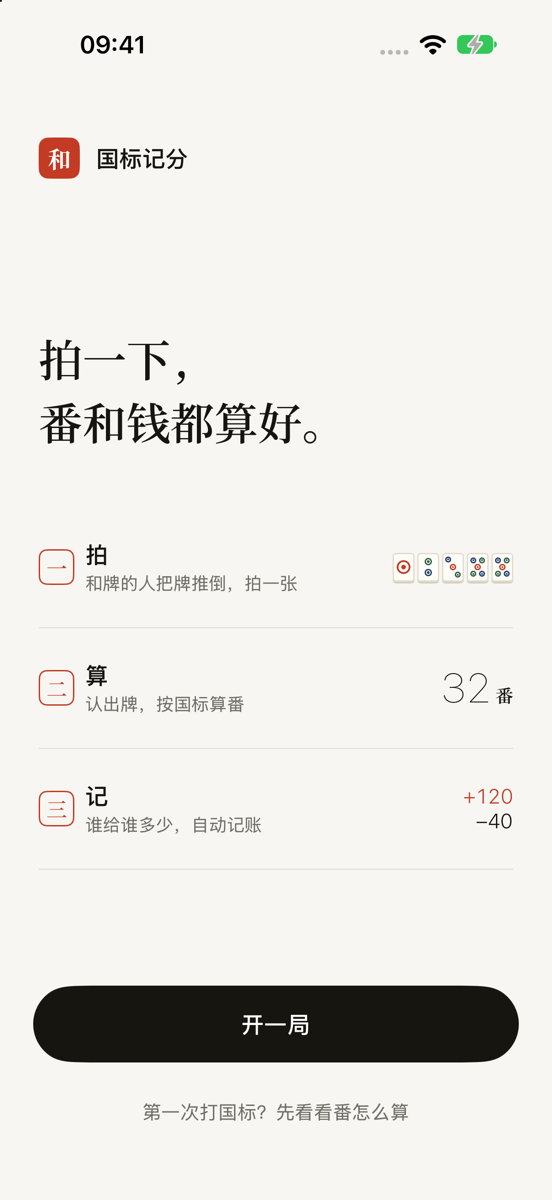
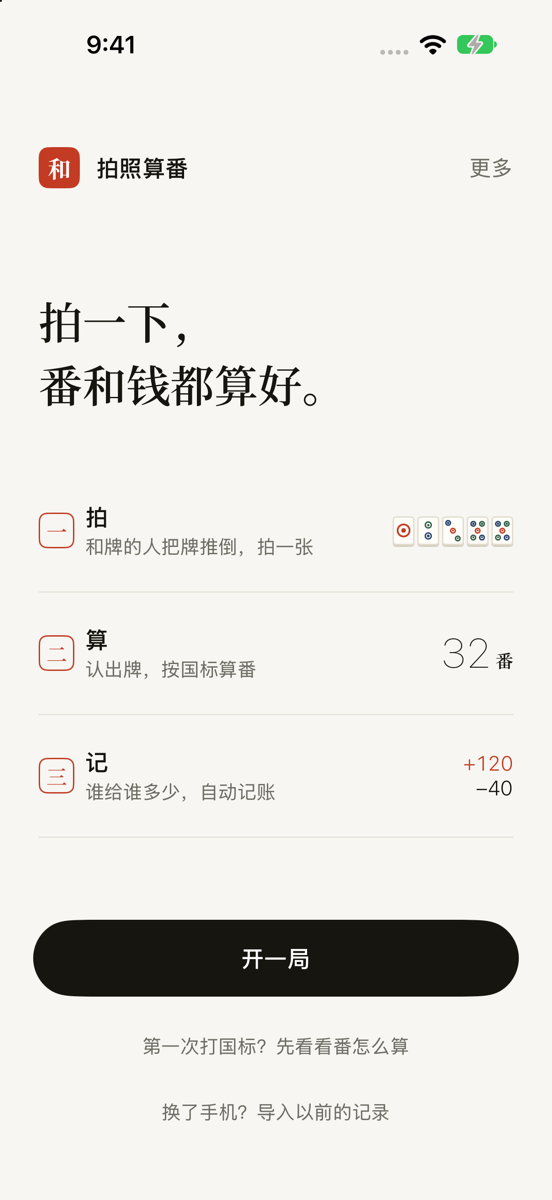
首页「更多」改成从底下升起的一页，build 6 (#35)
* 界面第一批：不替人选谁和了和自摸，核对页能看照片，邀请码提示挪到核对页，删除报错不用朱红

- 拍照页四个名字不再默认亮庄家；核对页加「谁和了」一排，拍照页点过的亮着、可改
- 「怎么和的」改成一排：自摸 / 某某点炮，都不预选；没选时底部按钮写原因
- 核对页标题右边放照片小图，点开全屏可放大拖动
- 拍照页不再提邀请码；离线认牌这手动手改过、牌对了以后，核对页提一行
- 删掉这一局、填码出错、改分填错改用墨色
- docs/user-flow.md 跟着改

Claude-Session: https://claude.ai/code/session_01Sm2sfkRi3hnSogq4ZtLyWH

* 界面第二批：「我」和第一局的庄分开、首页链接收进「更多」、结算写钱、老用户收起说明、字号调大、触感、和印章

- 牌局加 me（旧存档按第一个人），开局页第一行是你，另点第一局谁坐庄；牌桌图和首页历史按 me 显示
- 首页三行灰链接收进右上「更多」，历史行写名字加输赢
- 结算页名次大字写钱，1 分不是 1 元时旁边写分
- 记过 3 手和牌后收起核对页、牌桌、首页的教学说明句
- 小字 12/13 号调到 13/14 号，教人做事的字不再用最淡的灰
- 快门、牌落下、记下、撤销加触感；和的那张用朱红小印「和」
- 结果页顶行改成墨色、可点回核对页改；撤销条留 8 秒
- docs/user-flow.md 跟着改

Claude-Session: https://claude.ai/code/session_01Sm2sfkRi3hnSogq4ZtLyWH

* 1.0.3（build 5）：空首页也有「更多」（能找到填邀请码），支持页和送审说明改成新位置，写好新版说明

Claude-Session: https://claude.ai/code/session_01Sm2sfkRi3hnSogq4ZtLyWH

* 1.0.3 产品页截图重拍（6.9 寸，6 张）

* 首页「更多」改成从底下升起的一页（不用系统菜单），build 6

Claude-Session: https://claude.ai/code/session_01Sm2sfkRi3hnSogq4ZtLyWH

* 「更多」页：标题大一号，最后一行不画线，高度收紧

Claude-Session: https://claude.ai/code/session_01Sm2sfkRi3hnSogq4ZtLyWH

* 文档截图：首页、空首页、首页「更多」页

---------

diff --git a/app/MajiangApp/Screens/HomeView.swift b/app/MajiangApp/Screens/HomeView.swift
@@ -8,6 +8,9 @@ struct HomeView: View {
     @State private var showSettings = false
     @State private var showBackup = false
     @State private var showInvite = false
+    @State private var showMore = false
+    /// 「更多」页里点了哪一项：等「更多」收下去再打开那一页，两层弹出不叠在一起。
+    @State private var moreTarget: MoreTarget?
 
     private var isEmpty: Bool { model.archive.games.isEmpty }
 
@@ -25,9 +28,18 @@ struct HomeView: View {
         .sheet(isPresented: $showGuide) { RulesGuideView() }
         .sheet(isPresented: $showBackup) { BackupView() }
         .sheet(isPresented: $showInvite) { InviteView() }
+        .sheet(isPresented: $showMore, onDismiss: openMoreTarget) {
+            MoreSheet(showsInvite: model.usesProxy || model.demoScreen == .invite || model.demoScreen == .more,
+                      inviteOn: model.inviteCode != nil,
+                      backupLine: backupLine) { target in
+                moreTarget = target
+                showMore = false
+            }
+        }
         .onAppear {
             if model.demoScreen == .backup { showBackup = true }
             if model.demoScreen == .invite { showInvite = true }
+            if model.demoScreen == .more { showMore = true }
         }
         #if DEBUG
         .sheet(isPresented: $showSettings) { SettingsView() }
@@ -104,17 +116,10 @@ struct HomeView: View {
         }
     }
 
-    /// 右上角的「更多」：番怎么算、备份、邀请码。跟牌桌页右上的「更多」一样是灰字。
+    /// 右上角的「更多」：灰字，点开从底下升起一页（App 自己的样式，不用系统菜单）。
     /// 第一次打开的空首页也有，审核员和新用户一打开就能找到填邀请码的地方。
     private var moreMenu: some View {
-        Menu {
-            Button("番怎么算") { showGuide = true }
-            Button("备份与换手机") { showBackup = true }
-            // 走我们的服务器时才有邀请码（开发版直连 Google 用不着）
-            if model.usesProxy || model.demoScreen == .invite {
-                Button(model.inviteCode == nil ? "填邀请码，开启 AI 认牌" : "AI 认牌 · 已开启") { showInvite = true }
-            }
-        } label: {
+        Button { showMore = true } label: {
             Text("更多")
                 .font(.system(size: 16))
                 .foregroundStyle(Theme.gray)
@@ -122,6 +127,80 @@ struct HomeView: View {
                 .frame(minHeight: 44)
                 .contentShape(Rectangle())
         }
+        .buttonStyle(.plain)
+    }
+
+    /// 「备份与换手机」那行下面的一句：iCloud 开没开。
+    private var backupLine: String {
+        model.cloud.enabled ? "iCloud 同步已打开" : "导出、导入牌局，或者打开 iCloud 同步"
+    }
+
+    private func openMoreTarget() {
+        switch moreTarget {
+        case .guide: showGuide = true
+        case .backup: showBackup = true
+        case .invite: showInvite = true
+        case nil: break
+        }
+        moreTarget = nil
+    }
+}
+
+private enum MoreTarget {
+    case guide, backup, invite
+}
+
+/// 「更多」：纸白底，一项一行，名字下面一句说明，右边一个 ›。跟账本、家规一样是细线列表。
+private struct MoreSheet: View {
+    var showsInvite: Bool
+    var inviteOn: Bool
+    var backupLine: String
+    var pick: (MoreTarget) -> Void
+
+    var body: some View {
+        VStack(alignment: .leading, spacing: 0) {
+            Text("更多")
+                .font(.system(size: 20, weight: .semibold))
+                .padding(.top, 28)
+                .padding(.bottom, 8)
+            row("番怎么算", "国标的番种和收付，都是白话", .guide, last: false)
+            row("备份与换手机", backupLine, .backup, last: !showsInvite)
+            if showsInvite {
+                row(inviteOn ? "AI 认牌 · 已开启" : "AI 认牌", inviteOn ? "看邀请码，或者移除" : "有邀请码就能开启，认牌更准",
+                    .invite, last: true)
+            }
+        }
+        .padding(.horizontal, 24)
+        .frame(maxHeight: .infinity, alignment: .top)
+        .foregroundStyle(Theme.ink)
+        .presentationDetents([.height(showsInvite ? 296 : 222)])
+        .presentationDragIndicator(.visible)
+        .presentationCornerRadius(28)
+        .presentationBackground(Theme.paper)
+    }
+
+    /// 最后一行底下不画线，免得线下面空一截。
+    private func row(_ title: String, _ detail: String, _ target: MoreTarget, last: Bool) -> some View {
+        Button { pick(target) } label: {
+            VStack(spacing: 0) {
+                HStack(spacing: 12) {
+                    VStack(alignment: .leading, spacing: 3) {
+                        Text(title).font(.system(size: 17))
+                        Text(detail)
+                            .font(.system(size: 14))
+                            .foregroundStyle(Theme.gray)
+                    }
+                    Spacer(minLength: 8)
+                    Image(systemName: "chevron.right")
+                        .font(.system(size: 13, weight: .semibold))
+                        .foregroundStyle(Theme.faint)
+                }
+                .frame(minHeight: 72)
+                if !last { Hairline() }
+            }
+            .contentShape(Rectangle())
+        }
+        .buttonStyle(.plain)
     }
 }
 

diff --git a/app/MajiangApp/Support/DemoData.swift b/app/MajiangApp/Support/DemoData.swift
@@ -10,8 +10,8 @@ enum DemoScreen: String {
     case reviewing = "check-reviewing", dualRead = "check-dual"
     /// 发到群里的账本图：打完的结算 / 没打完的牌局；备份与换手机页。
     case shareSettle = "share-settle", shareLive = "share-live", backup
-    /// 首页上打开填邀请码的页。
-    case invite
+    /// 首页上打开填邀请码的页；首页右上「更多」升起的那一页。
+    case invite, more
     /// 家规：开局页的规则表单、点开一项的选项；牌桌上打到一半改这场的规则（预览底分改成 5）、
     /// 带家规的牌桌、封顶起作用的结果页、带家规的账本图。
     case houseRules = "house-rules", rulePicker = "rule-picker", gameRules = "game-rules"

diff --git a/app/MajiangApp/App/AppModel.swift b/app/MajiangApp/App/AppModel.swift
@@ -112,7 +112,7 @@ final class AppModel {
         // 有没打完的牌局时，打开 App 直接进牌桌
         if let active = loaded.activeGame { path = [.table(active.id)] }
         switch demoScreen {
-        case .home, .emptyHome, .backup, .invite: path = []
+        case .home, .emptyHome, .backup, .invite, .more: path = []
         case .newGame, .houseRules, .rulePicker: path = [.newGame]
         case .settle: path = loaded.finishedGames.first.map { [.settle($0.id)] } ?? []
         default: break

diff --git a/docs/app-store.md b/docs/app-store.md
@@ -2,7 +2,7 @@
 
 ## 现在的状态（2026-11-01）
 
-- **1.0.3（build 5）**（2026-11-04 准备）：界面两批改动（PR #32、#33），重拍了产品页截图。见下面「1.0.3」一节。
+- **1.0.3（build 6）**（2026-11-04 准备；build 5 传过，首页「更多」改成自己的一页后换 build 6）：界面两批改动（PR #32、#33），重拍了产品页截图。见下面「1.0.3」一节。
 
 - **App Store 1.0（build 2）已上架**：2026-10-31 20:49 UTC 提交，2026-11-01 审核通过，自动上架。build 2 带端侧认牌模型和填码页。
 - **上架地区**：全部 175 个国家和地区，**含中国大陆**（10-31 23:48 UTC 加上的）。价格免费。
